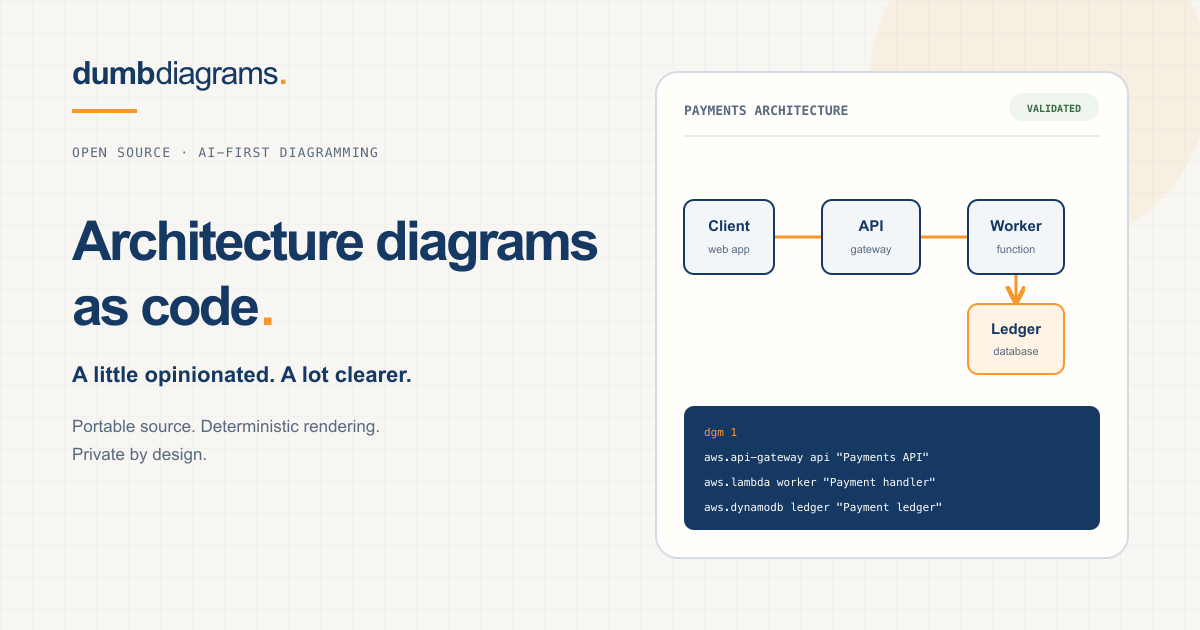
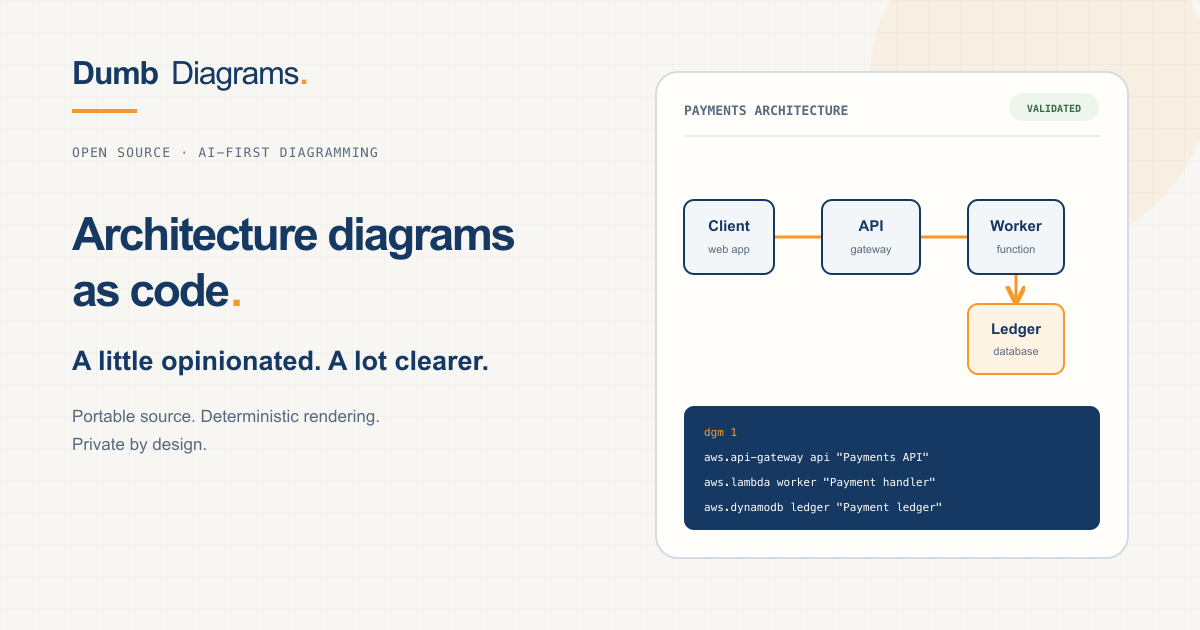
Update environment variables, enhance social card graphics, and improve website content for clarity and SEO. Adjust tests for metadata accuracy and refine styling for better user experience.

Changed region(s): [[0.0617, 0.3317, 0.4933, 0.5127], [0.0617, 0.5429, 0.4008, 0.754], [0.0617, 0.0905, 0.2467, 0.1508]]

diff --git a/packages/website/src/styles/global.css b/packages/website/src/styles/global.css
@@ -52,16 +52,16 @@
   .mobile-nav { display: none; }
   .install { width: 480px; max-width: 100%; border: 1px solid var(--line); background: #fcfbf7; }
   .install-tabs { display: flex; align-items: stretch; gap: 19px; padding: 0 17px; border-bottom: 1px solid var(--line); height: 36px; }
-  .install-tabs button { border: 0; border-bottom: 1px solid transparent; background: transparent; color: var(--muted); font-size: 10px; padding: 0; margin-bottom: -1px; }
+  .install-tabs button { border: 0; border-bottom: 1px solid transparent; background: transparent; color: var(--muted); font-size: 11px; padding: 0; margin-bottom: -1px; }
   .install-tabs button[aria-pressed="true"] { border-color: var(--orange); color: var(--ink); }
-  .install-tabs > span { margin-left: auto; color: var(--muted); font-size: 9px; align-self: center; letter-spacing: .04em; }
+  .install-tabs > span { margin-left: auto; color: var(--muted); font-size: 10px; align-self: center; letter-spacing: .04em; }
   .install-command { padding: 17px; display: flex; align-items: center; gap: 11px; }
   .install-command code { min-width: 0; flex: 1; white-space: nowrap; overflow-x: auto; scrollbar-width: none; font-size: 13px; letter-spacing: -.035em; }
   .install-command code::-webkit-scrollbar { display: none; }
   .prompt { color: var(--orange); font-family: var(--mono); }
   .copy-button { background: transparent; border: 0; width: 28px; min-width: 28px; min-height: 30px; flex-shrink: 0; font-size: 20px; margin-left: auto; padding: 0; }
   .copy-button:hover { color: var(--orange); }
-  .install-caption { display: flex; justify-content: space-between; gap: 10px; font-size: 9px; color: var(--muted); padding: 0 17px 12px; }
+  .install-caption { display: flex; justify-content: space-between; gap: 10px; font-size: 10px; color: var(--muted); padding: 0 17px 12px; }
   .install-caption span span { padding: 0 5px; }
   .install-caption a { color: var(--ink); }
   .site-footer { padding: 45px 0 72px; }
@@ -84,7 +84,7 @@
 @layer pages {
   .hero { --hero-window-height: clamp(390px, 56svh, 500px); padding: clamp(24px, 4svh, 40px) 0 24px; }
   .hero-eyebrow { display: flex; justify-content: space-between; align-items: center; margin-bottom: 24px; gap: 24px; }
-  .version { color: var(--muted); font-size: 9px; letter-spacing: .035em; }
+  .version { color: var(--muted); font-size: 10px; letter-spacing: .035em; }
   .hero-grid { display: grid; grid-template-columns: minmax(0, 1fr) minmax(0, 1.06fr); align-items: center; gap: clamp(28px, 2.5vw, 36px); }
   .hero-copy, .hero-terminal { min-width: 0; }
   .hero h1 { font-size: clamp(60px, 6.2vw, 88px); font-weight: 500; line-height: 1.08; }
@@ -92,7 +92,6 @@
   .hero-period { color: var(--brand-coral); }
   .hero-description { max-width: 390px; margin-top: 22px; }
   .hero-description p { font-size: 15px; color: var(--muted); line-height: 1.8; letter-spacing: -.025em; }
-  .hero-motto { display: block; margin-bottom: 14px; color: var(--ink); font-size: 20px; line-height: 1.3; letter-spacing: -.04em; }
   .hero-start { margin-top: 28px; max-width: 100%; }
   .hero .install { width: 100%; }
   .provider-strip { padding: 18px 0 40px; }
@@ -109,17 +108,17 @@
   .section-heading .eyebrow { color: var(--muted); margin-bottom: 24px; }
   .section-heading h2 { font-size: 53px; line-height: 1.12; }
   .section-heading > p { color: var(--muted); max-width: 370px; margin-top: 23px; font-size: 14px; }
-  .manifesto { margin: 0 -64px; padding: 78px 64px; color: #f1f5fb; background: var(--brand-navy-deep); display: grid; grid-template-columns: 1.7fr 1fr; gap: 110px; }
-  .manifesto .eyebrow { color: #c2cfe1; }
-  .manifesto h2 { font-size: 49px; line-height: 1.15; margin: 30px 0 24px; }
+  .manifesto { margin: 0 -64px; padding: 78px 64px; color: #f1f5fb; background: var(--brand-navy-deep); display: grid; grid-template-columns: minmax(0, 1.45fr) minmax(0, 1.15fr); gap: clamp(56px, 6vw, 88px); }
+  .manifesto .eyebrow { color: #c2cfe1; font-size: 12px; }
+  .manifesto h2 { font-size: 47px; line-height: 1.15; margin: 30px 0 24px; }
   .manifesto h2 em { display: block; font-family: Georgia, serif; font-weight: 400; color: var(--brand-orange); letter-spacing: -.05em; }
-  .manifesto-main > p { color: #bdcde0; font-size: 13px; line-height: 1.9; max-width: 400px; margin-bottom: 30px; }
+  .manifesto-main > p { color: #bdcde0; font-size: 14px; line-height: 1.75; max-width: 430px; margin-bottom: 30px; }
   .manifesto-notes article { padding: 23px 0; border-bottom: 1px solid #3a5371; }
   .manifesto-notes article:first-child { padding-top: 0; }
   .manifesto-notes article:last-child { border: 0; padding-bottom: 0; }
-  .manifesto-notes .mono { font-size: 11px; color: var(--brand-orange); }
-  .manifesto-notes h3 { font-size: 18px; margin: 10px 0; }
-  .manifesto-notes p { font-size: 12px; color: #bdcde0; }
+  .manifesto-notes .mono { font-size: 13px; color: var(--brand-orange); }
+  .manifesto-notes h3 { font-size: 19px; margin: 10px 0; }
+  .manifesto-notes p { font-size: 13px; line-height: 1.7; color: #bdcde0; }
   .faq { display: grid; grid-template-columns: 1fr 1.3fr; gap: 90px; }
   /* The canonical artwork has transparent padding; offset it so its visible
      footprint matches the former FAQ derivative at the same alignment. */
@@ -149,7 +148,7 @@
     .install-command code { font-size: 11px; }
     .section-heading h2 { font-size: 44px; }
     .manifesto { margin: 0 -36px; padding: 64px 36px; gap: 60px; }
-    .manifesto h2 { font-size: 43px; }
+    .manifesto h2 { font-size: 41px; }
     .faq { gap: 45px; }
     .closing { padding: 35px; }
     .closing h2 { font-size: 40px; }
@@ -168,7 +167,7 @@
     .hero h1 { grid-column: 1 / -1; }
     .hero h1 { font-size: clamp(52px, 8.4vw, 76px); }
     .hero-description, .hero-start { margin-top: 0; }
-    .hero .install-command code { font-size: 10px; }
+    .hero .install-command code { font-size: 12px; }
   }
   @media (max-width: 800px) {
     .page-shell { padding: 0 24px; }
@@ -213,26 +212,32 @@
     .mobile-nav nav { position: absolute; top: 77px; left: 0; right: 0; z-index: 10; padding: 20px; display: grid; gap: 15px; border-bottom: 1px solid var(--line); background: var(--paper); }
     .hero { --hero-window-height: 355px; }
     .hero-eyebrow { margin-bottom: 22px; }
-    .hero-eyebrow .eyebrow { font-size: 8px; letter-spacing: .045em; }
+    .hero-eyebrow .eyebrow { font-size: 10px; letter-spacing: .045em; }
     .version { display: none; }
     .hero h1 { font-size: clamp(34px, 9.2vw, 49px); line-height: 1.13; letter-spacing: -.065em; }
     .hero-description p { font-size: 14px; }
     .text-link { font-size: 11px; gap: 16px; }
     .install-tabs { gap: 18px; padding: 0 12px; }
-    .install-tabs > span { font-size: 8px; }
+    .install-tabs button { font-size: 11px; }
+    .install-tabs > span { font-size: 10px; }
     .install-command { padding: 15px 12px; gap: 7px; }
-    .install-command code, .hero .install-command code { font-size: 10.5px; }
-    .install-caption { padding: 0 12px 12px; font-size: 8px; }
+    .install-command code, .hero .install-command code { font-size: 11.5px; }
+    .install-caption { padding: 0 12px 12px; font-size: 10px; }
     .copy-button { font-size: 16px; min-width: 26px; }
     .provider-strip { padding: 14px 0 24px; }
     .provider-strip-list { display: grid; grid-template-columns: repeat(2, minmax(0, 1fr)); gap: 24px; }
     .provider-strip-list li { font-size: 15px; }
     .provider-strip-list li:nth-child(2n)::after { width: calc(100% - 6px); background: linear-gradient(90deg, var(--line), transparent); }
     .section-heading h2 { font-size: 37px; }
-    .eyebrow { font-size: 8px; }
+    .eyebrow { font-size: 9px; }
+    .manifesto .eyebrow { font-size: 11px; }
     .manifesto { margin: 0 -20px; padding: 48px 20px; grid-template-columns: 1fr; gap: 38px; }
-    .manifesto h2 { font-size: 40px; }
+    .manifesto h2 { font-size: 38px; }
     .manifesto-notes article { padding: 20px 0; }
+    .manifesto-main > p { font-size: 14px; }
+    .manifesto-notes .mono { font-size: 13px; }
+    .manifesto-notes h3 { font-size: 19px; }
+    .manifesto-notes p { font-size: 13px; }
     .faq-list summary { font-size: 13px; }
     .closing { padding: 30px 22px; }
     .closing h2 { font-size: 34px; }

diff --git a/packages/website/src/styles/examples.css b/packages/website/src/styles/examples.css
@@ -5,11 +5,11 @@
   .examples-heading { display: flex; justify-content: space-between; align-items: flex-end; gap: 48px; margin-bottom: 44px; }
   .examples-heading > p { margin: 0 0 6px; max-width: 310px; color: var(--muted); font-size: 13px; line-height: 1.85; }
   .example-tabs { display: grid; grid-template-columns: repeat(3,minmax(0,1fr)); border-top: 1px solid var(--line); border-bottom: 1px solid var(--line); }
-  .example-tabs button { display: flex; align-items: center; gap: 14px; min-height: 70px; padding: 16px 18px; border: 0; border-bottom: 2px solid transparent; margin-bottom: -1px; background: transparent; text-align: left; font-size: 12px; line-height: 1.5; }
+  .example-tabs button { display: flex; align-items: center; gap: 14px; min-height: 70px; padding: 16px 18px; border: 0; border-bottom: 2px solid transparent; margin-bottom: -1px; background: transparent; text-align: left; font-size: 13px; line-height: 1.5; }
   .example-tabs button + button { border-left: 1px solid var(--line); }
-  .example-tabs .mono { color: var(--muted); font-size: 9px; }
+  .example-tabs .mono { color: var(--muted); font-size: 10px; }
   .example-tabs button[aria-selected='true'] { background: var(--brand-navy-soft); border-bottom-color: var(--orange); }
-  .example-tabs button[aria-selected='true'] .mono { color: var(--orange-dark); }
+  .example-tabs button[aria-selected='true'] .mono { color: var(--ink); }
   /* All examples share their description/workspace rows, so even wrapped copy
      reserves the same space before a tab is selected. Inactive panels remain
      invisible and inert, but still contribute their natural size to the grid. */
@@ -17,8 +17,8 @@
   .example-panel { --diagram-viewport-height: 455px; grid-area: 1 / 1 / span 2 / 2; display: grid; grid-template-rows: subgrid; min-width: 0; }
   .example-panel[hidden] { visibility: hidden; pointer-events: none; }
   .example-description { display: flex; justify-content: space-between; align-items: center; gap: 28px; padding: 22px 0; }
-  .example-description p { max-width: 660px; font-size: 12px; color: var(--muted); }
-  .example-description > .mono { flex-shrink: 0; font-size: 8px; letter-spacing: .04em; }
+  .example-description p { max-width: 660px; font-size: 14px; color: var(--muted); }
+  .example-description > .mono { flex-shrink: 0; font-size: 10px; letter-spacing: .04em; }
   .example-description > .mono > span { padding: 0 12px; color: var(--orange); }
   .example-workspace { display: grid; grid-template-columns: minmax(0, .72fr) minmax(0, 2.15fr); gap: 18px; }
   .example-input { height: calc(var(--diagram-viewport-height) + 91px); min-width: 0; border: 1px solid var(--brand-navy); border-radius: 10px; overflow: hidden; background: var(--brand-navy-deep); color: #eff3fa; display: flex; flex-direction: column; transition: background-color 200ms ease, border-color 200ms ease; }
@@ -41,22 +41,27 @@
   .source-code pre { margin: 0; padding: 16px; background: transparent !important; font: 10px/1.8 var(--mono); width: max-content; min-width: 100%; }
   .example-output { min-width: 0; border: 1px solid var(--line); border-radius: 10px; overflow: hidden; background: #fffefa; }
   .output-bar { height: 45px; display: flex; align-items: center; gap: 12px; padding: 0 18px; border-bottom: 1px solid var(--line); }
-  .output-bar > .mono { font-size: 8px; letter-spacing: .05em; }
-  .output-bar > a { margin-left: auto; font-size: 9px; }
+  .output-bar > .mono { font-size: 10px; letter-spacing: .05em; }
+  .output-bar > a { margin-left: auto; font-size: 11px; }
   .preview-controls { display: flex; align-items: center; gap: 4px; margin-left: auto; }
   .preview-controls button { background: transparent; border: 1px solid var(--line); color: var(--ink); min-width: 27px; height: 25px; padding: 0 7px; font: 10px var(--mono); border-radius: 3px; }
   .preview-controls [data-zoom='fit'] { min-width: 5.5ch; }
   .preview-controls button:disabled { opacity: .4; cursor: default; }
   .diagram-viewport { height: var(--diagram-viewport-height); padding: 10px; overflow: auto; overscroll-behavior: contain; display: flex; flex-direction: column; background: radial-gradient(#becbd8 .6px,transparent .6px) 0 0 / 16px 16px, #fffefa; }
   .diagram-viewport img { width: calc(100% * var(--diagram-zoom, 1)); max-width: none; height: auto; flex-shrink: 0; margin: auto 0; mix-blend-mode: multiply; }
-  .output-footer { min-height: 44px; padding: 12px 18px; display: flex; align-items: center; justify-content: space-between; gap: 10px; border-top: 1px solid var(--line); font-size: 9px; color: var(--muted); }
+  .output-footer { min-height: 44px; padding: 12px 18px; display: flex; align-items: center; justify-content: space-between; gap: 10px; border-top: 1px solid var(--line); font-size: 11px; color: var(--muted); }
   .output-footer a { color: var(--ink); }
-  .examples-footnote { display: flex; justify-content: space-between; gap: 30px; padding-top: 20px; color: var(--muted); font-size: 10px; }
+  .examples-footnote { display: flex; align-items: center; justify-content: space-between; gap: 30px; padding-top: 20px; color: var(--muted); font-size: 12px; }
   .examples-footnote span { max-width: 600px; }
   .examples-footnote a { flex-shrink: 0; color: var(--ink); }
+  .examples-footnote-links { display: flex; flex-wrap: wrap; align-items: center; justify-content: flex-end; gap: 12px 20px; }
+  .examples-footnote-links > a { font-size: 12px; }
+  .examples-footnote-links .examples-cloud-link { gap: 12px; padding: 12px 16px; color: #fff; font-size: 12px; }
+  .examples-footnote-links .examples-cloud-link:hover, .examples-footnote-links .examples-cloud-link:focus-visible { background: var(--brand-orange); color: var(--brand-navy-deep); }
+  .examples-footnote-links .examples-cloud-link span { max-width: none; font-size: 18px; }
 }
 @layer responsive {
-  @media (max-width: 1100px) { .example-workspace { grid-template-columns: minmax(0,1fr) minmax(0,1.8fr); gap: 12px; } .example-tabs button { padding: 16px 12px; gap: 10px; font-size: 11px; } .example-description > .mono { display: none; } }
-  @media (max-width: 800px) { .example-panel { --diagram-viewport-height: 400px; } .examples-heading { display: block; } .examples-heading > p { margin-top: 22px; max-width: 460px; } .example-workspace { grid-template-columns: 1fr; gap: 16px; } .prompt-text, .source-code { height: 240px; max-height: 240px; } .examples-footnote { flex-direction: column; gap: 12px; } }
-  @media (max-width: 540px) { .example-panel { --diagram-viewport-height: 320px; } .example-tabs { display: flex; overflow-x: auto; } .example-tabs button { min-width: 185px; flex: 1 0 185px; } .example-description { padding: 18px 0; } .example-description p { font-size: 11px; } .prompt-text { font-size: 12px; } .diagram-viewport { padding: 6px; } .output-bar { padding: 0 12px; gap: 8px; } .output-footer { padding: 12px; font-size: 8px; } .output-footer > span { max-width: 55%; } }
+  @media (max-width: 1100px) { .example-workspace { grid-template-columns: minmax(0,1fr) minmax(0,1.8fr); gap: 12px; } .example-tabs button { padding: 16px 12px; gap: 10px; font-size: 12px; } .example-description > .mono { display: none; } }
+  @media (max-width: 800px) { .example-panel { --diagram-viewport-height: 400px; } .examples-heading { display: block; } .examples-heading > p { margin-top: 22px; max-width: 460px; } .example-workspace { grid-template-columns: 1fr; gap: 16px; } .prompt-text, .source-code { height: 240px; max-height: 240px; } .examples-footnote { align-items: flex-start; flex-direction: column; gap: 14px; } .examples-footnote-links { justify-content: flex-start; } }
+  @media (max-width: 540px) { .example-panel { --diagram-viewport-height: 320px; } .example-tabs { display: flex; overflow-x: auto; } .example-tabs button { min-width: 185px; flex: 1 0 185px; font-size: 13px; } .example-description { padding: 18px 0; } .example-description p { font-size: 13px; } .prompt-text { font-size: 12px; } .diagram-viewport { padding: 6px; } .output-bar { padding: 0 12px; gap: 8px; } .output-bar > a { font-size: 10px; } .output-footer { padding: 12px; font-size: 10px; } .output-footer > span { max-width: 55%; } .examples-footnote-links { align-items: flex-start; flex-direction: column; } }
 }

diff --git a/packages/website/src/styles/hero-journey.css b/packages/website/src/styles/hero-journey.css
@@ -1,13 +1,13 @@
 @layer components {
-  .hero-journey { --journey-ink: var(--brand-navy); --journey-muted: #7b8999; --journey-line: #cfd7df; --journey-coral: var(--brand-coral); --journey-orange: var(--brand-orange); --journey-window-height: var(--hero-window-height, 450px); container-type: inline-size; }
-  .journey-stage-nav { display: flex; align-items: center; gap: 10px; margin: 0 0 10px; color: var(--journey-muted); font: 9px var(--mono); letter-spacing: .025em; }
+  .hero-journey { --journey-ink: var(--brand-navy); --journey-muted: var(--muted); --journey-line: #cfd7df; --journey-coral: var(--brand-coral); --journey-orange: var(--brand-orange); --journey-window-height: var(--hero-window-height, 450px); container-type: inline-size; }
+  .journey-stage-nav { display: flex; align-items: center; gap: 10px; margin: 0 0 10px; color: var(--journey-muted); font: 11px var(--mono); letter-spacing: .025em; }
   .journey-stage-nav button { display: inline-flex; align-items: center; gap: 7px; min-width: 0; padding: 5px 0; border: 0; background: transparent; color: inherit; font: inherit; white-space: nowrap; }
   .journey-stage-nav button:not(:disabled) { cursor: pointer; }
   .journey-stage-nav button:not(:disabled):hover { color: var(--journey-ink); }
   .journey-stage-nav button[aria-selected="true"] { color: var(--journey-ink); }
-  .journey-stage-nav button[aria-selected="true"] .journey-stage-number { color: var(--journey-coral); }
-  .journey-stage-nav button:disabled { cursor: not-allowed; opacity: .48; }
-  .journey-stage-number { color: #a8b3bf; font-size: 8px; }
+  .journey-stage-nav button[aria-selected="true"] .journey-stage-number { color: var(--brand-coral-deep); }
+  .journey-stage-nav button:disabled { cursor: not-allowed; color: var(--journey-muted); }
+  .journey-stage-number { color: var(--journey-muted); font-size: 10px; }
   .journey-stage-line { height: 1px; min-width: 10px; flex: 1; background: var(--journey-line); }
   .journey-window { position: relative; min-height: var(--journey-window-height); }
   .journey-stage-panel { min-height: var(--journey-window-height); }
@@ -16,12 +16,13 @@
   .hero-journey.is-enhanced .journey-stage-panel[data-entering] { animation: journey-panel-in .55s cubic-bezier(.22, 1, .36, 1) both; }
   @keyframes journey-panel-in { from { opacity: .2; transform: translateY(10px) scale(.992); } to { opacity: 1; transform: none; } }
   .journey-action-row { display: flex; align-items: center; justify-content: space-between; gap: 16px; min-height: 56px; padding-top: 12px; }
-  .journey-status { min-width: 0; color: var(--journey-muted); font: 9px/1.5 var(--mono); }
+  .journey-status { min-width: 0; color: var(--journey-muted); font: 12px/1.5 var(--mono); }
   .journey-next { display: inline-flex; align-items: center; gap: 12px; width: 280px; flex-shrink: 0; padding: 8px 11px 8px 8px; border: 1px solid var(--journey-ink); background: var(--journey-ink); color: #fff; font: 10px var(--mono); transition: background-color .2s ease, color .2s ease, opacity .2s ease; }
   .journey-next [data-next-label] { min-width: 0; flex: 1; text-align: left; }
   .journey-next:not(:disabled):hover, .journey-next:not(:disabled):focus-visible { background: var(--journey-orange); color: var(--journey-ink); }
-  .journey-next:disabled { cursor: not-allowed; opacity: .42; }
-  .journey-next-step { align-self: stretch; display: inline-flex; align-items: center; padding: 0 8px; border-right: 1px solid #ffffff3d; color: var(--journey-orange); font-size: 8px; letter-spacing: .06em; white-space: nowrap; }
+  .journey-next:disabled { cursor: not-allowed; background: var(--paper); border-color: var(--journey-muted); color: var(--journey-muted); }
+  .journey-next:disabled .journey-next-step, .journey-next:disabled .journey-next-arrow { color: var(--journey-muted); }
+  .journey-next-step { align-self: stretch; display: inline-flex; align-items: center; padding: 0 8px; border-right: 1px solid #586a7f59; color: var(--journey-orange); font-size: 10px; letter-spacing: .06em; white-space: nowrap; }
   .journey-next:not(:disabled):hover .journey-next-step { border-color: #1639644d; color: var(--journey-coral); }
   .journey-next-arrow { color: var(--journey-orange); font-size: 17px; line-height: .6; }
   .journey-next:not(:disabled):hover .journey-next-arrow { color: var(--journey-coral); }
@@ -113,7 +114,7 @@
   .studio-canvas-label span { color: var(--brand-coral); }
   .studio-canvas img { position: relative; z-index: 1; display: block; width: 95%; max-height: calc(100% - 68px); margin: 16px auto 0; object-fit: contain; object-position: center; filter: drop-shadow(0 7px 8px #65708018); }
   .studio-zoom { position: absolute; z-index: 2; right: 12px; bottom: 11px; display: flex; gap: 9px; padding: 6px 8px; border: 1px solid #d8d0c7; border-radius: 14px; background: #fffdfaee; color: #5c7083; font: 8px var(--mono); }
-  @container (max-width: 550px) { .journey-stage-nav { gap: 6px; font-size: 8px; } .journey-stage-line { min-width: 4px; } .journey-stage-number { display: none; } .journey-status { font-size: 8px; } .journey-next { gap: 9px; } .cursor-activity, .cursor-workbench { display: none; } .cursor-explorer { width: 25%; min-width: 92px; } .cursor-editor { width: auto; min-width: 0; flex: 1; border-left: 0; } .cursor-explorer-footer, .cursor-statusbar span:nth-child(n+3) { display: none; } .cursor-agent-heading { padding-inline: 12px; } .cursor-agent-card { margin-inline: 11px; } .cursor-prompt { height: 240px; font-size: 8px; } .studio-tools { width: 28px; gap: 10px; } .studio-tools span { width: 21px; height: 21px; } .studio-source { width: 40%; min-width: 128px; } .studio-file-name, .studio-title-actions, .studio-edit-tools { display: none; } .studio-canvas img { width: 100%; } }
+  @container (max-width: 550px) { .journey-stage-nav { gap: 6px; font-size: 10px; } .journey-stage-line { min-width: 4px; } .journey-stage-number { display: none; } .journey-status { font-size: 11px; } .journey-next { gap: 9px; } .cursor-activity, .cursor-workbench { display: none; } .cursor-explorer { width: 25%; min-width: 92px; } .cursor-editor { width: auto; min-width: 0; flex: 1; border-left: 0; } .cursor-explorer-footer, .cursor-statusbar span:nth-child(n+3) { display: none; } .cursor-agent-heading { padding-inline: 12px; } .cursor-agent-card { margin-inline: 11px; } .cursor-prompt { height: 240px; font-size: 8px; } .studio-tools { width: 28px; gap: 10px; } .studio-tools span { width: 21px; height: 21px; } .studio-source { width: 40%; min-width: 128px; } .studio-file-name, .studio-title-actions, .studio-edit-tools { display: none; } .studio-canvas img { width: 100%; } }
   @container (max-width: 390px) { .journey-stage-nav button > span:last-child { max-width: 76px; overflow: hidden; text-overflow: ellipsis; } .journey-action-row { align-items: flex-end; flex-direction: column; gap: 7px; } .journey-status { align-self: flex-start; } .journey-next { align-self: stretch; width: 100%; justify-content: space-between; } .cursor-explorer { display: none; } .cursor-agent-card { margin-inline: 9px; } .studio-tools { display: none; } .studio-source { width: 46%; min-width: 120px; } .studio-source-actions span:nth-child(3) { display: none; } .studio-code { font-size: 6px; } .studio-canvas-label { padding-inline: 8px; font-size: 7px; } }
   @media (prefers-reduced-motion: reduce) { .hero-journey.is-enhanced .journey-stage-panel[data-entering] { animation: none; } .journey-next { transition: none; } .cursor-prompt-caret { animation: none; } }
 }

diff --git a/packages/website/src/lib/site.ts b/packages/website/src/lib/site.ts
@@ -9,7 +9,7 @@ export function orderDocs<T extends { id: string; data: { section: string; order
 }
 export const createCommand = "npm install -g create-dumb-diagrams";
 export const installCommand = "dumbdiagrams init";
-export const repository = import.meta.env.PUBLIC_REPOSITORY_URL || "";
+export const repository = import.meta.env.PUBLIC_REPOSITORY_URL || "https://github.com/dumbdiagrams/dumb-diagrams";
 export const npmUrl = "https://www.npmjs.com/package/create-dumb-diagrams";
 export function url(path = "") {
   return `${import.meta.env.BASE_URL.replace(/\/$/, "")}/${path.replace(/^\//, "")}`;

diff --git a/packages/website/src/content/docs/quick-start.md b/packages/website/src/content/docs/quick-start.md
@@ -2,7 +2,7 @@
 title: Quick start
 description: Install the CLI, create a project, and open your first diagram in Studio.
 seoTitle: Getting Started with Diagrams as Code
-seoDescription: Install the DumbDiagrams CLI, create a diagram project, and open your first diagram in Studio.
+seoDescription: Install the Dumb Diagrams CLI, create a diagram project, and open your first diagram in Studio.
 section: Start here
 order: 1
 ---
